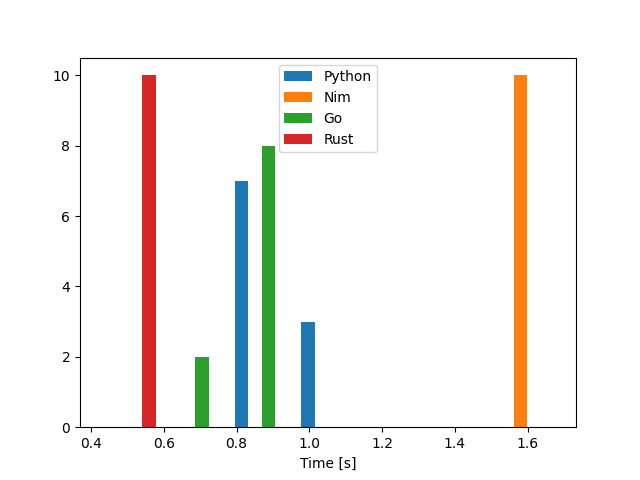
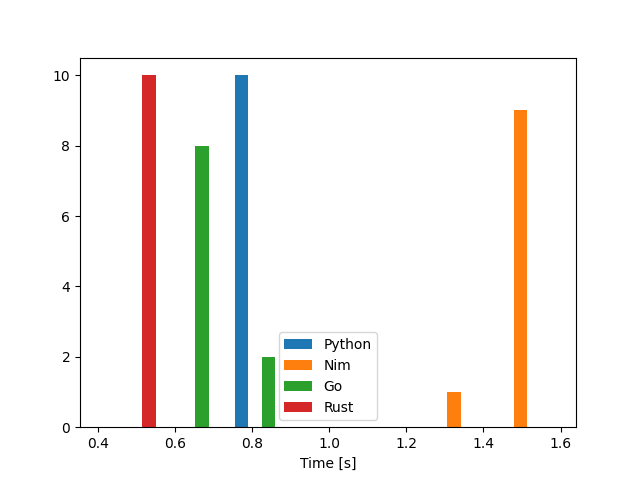
general fixes and improvement add new benchmark

diff --git a/anagram/ana.go b/anagram/ana.go
@@ -8,22 +8,22 @@ import (
 	"strings"
 )
 
-func sortString(s string) string {
-	var r []rune
+func sortString(str string) string {
+	var runeSlice []rune
 
-	for _, value := range s {
-		r = append(r, value)
+	for _, value := range str {
+		runeSlice = append(runeSlice, value)
 	}
 
-	sort.Slice(r, func(i, j int) bool {
-		return r[i] < r[j]
+	sort.SliceStable(runeSlice, func(i, j int) bool {
+		return runeSlice[i] < runeSlice[j]
 	})
 
-	return string(r)
+	return string(runeSlice)
 }
 
-func contains(s []string, str string) bool {
-	for _, v := range s {
+func contains(strSlice []string, str string) bool {
+	for _, v := range strSlice {
 		if v == str {
 			return true
 		}
@@ -32,6 +32,8 @@ func contains(s []string, str string) bool {
 }
 
 func main() {
+	theDict := make(map[string][]string)
+
 	file, err := os.Open("wordlist.txt")
 
 	if err != nil {
@@ -40,13 +42,10 @@ func main() {
 
 	defer file.Close()
 
-	theDict := make(map[string][]string)
-
 	words := bufio.NewScanner(file)
 
 	for words.Scan() {
-		word := words.Text()
-		word = strings.Trim(strings.Replace(word, "'", "", -1), "\n")
+		word := strings.Trim(strings.Replace(words.Text(), "'", "", -1), "\n")
 
 		if len(word) < 2 {
 			continue
@@ -54,18 +53,18 @@ func main() {
 
 		sortedWord := sortString(word)
 
-		if theDict[sortedWord] != nil {
+		if _, keyPresent := theDict[sortedWord]; keyPresent {
 			if !contains(theDict[sortedWord], word) {
 				theDict[sortedWord] = append(theDict[sortedWord], word)
 			}
 		} else {
-			theDict[sortedWord] = []string{word}
+			theDict[sortedWord] = []string{}
 		}
 	}
 
 	counter := 0
 	for k, v := range theDict {
-		if len(v) > 10 {
+		if len(v) >= 10 {
 			counter += 1
 			fmt.Printf("[%d] %s has %d words: %v\n", counter, k, len(v), v)
 		}

diff --git a/anagram/ana.py b/anagram/ana.py
@@ -1,24 +1,22 @@
 #!/usr/bin/env python3
 
-
-with open("wordlist.txt", "r", errors="ignore") as f:
-    words = f.readlines()
-
-
 the_dict: dict = {}
 
-for word in words:
-    word = word.replace("'", "").strip()
-    if len(word) < 2:
-        continue
+with open("wordlist.txt", "r") as file:
+    for word in file:
+        word = word.replace("'", "").strip()
 
-    sorted_word = "".join(sorted(word))
+        if len(word) < 2:
+            continue
 
-    if sorted_word in the_dict:
-        if word not in the_dict[sorted_word]:
-            the_dict[sorted_word].append(word)
-    else:
-        the_dict[sorted_word] = []
+        sorted_word = "".join(sorted(word))
+
+        if sorted_word in the_dict:
+            if word not in the_dict[sorted_word]:
+                the_dict[sorted_word].append(word)
+        else:
+            the_dict[sorted_word] = []
+
 
 counter = 0
 for k, v in the_dict.items():

diff --git a/anagram/ana.rs b/anagram/ana.rs
@@ -5,9 +5,10 @@ use std::{
 };
 
 fn main() {
+    let mut the_dict: HashMap<String, Vec<String>> = HashMap::new();
+
     let file = File::open("wordlist.txt").unwrap();
     let mut words = BufReader::new(file).lines();
-    let mut the_dict: HashMap<String, Vec<String>> = HashMap::new();
 
     while let Some(Ok(word)) = words.next() {
         let word = word.trim().replace("'", "");
@@ -17,7 +18,7 @@ fn main() {
         }
 
         let mut word_vec: Vec<char> = word.chars().collect();
-        word_vec.sort_unstable();
+        word_vec.sort();
         let sorted_word: String = word_vec.into_iter().collect();
 
         if the_dict.contains_key(&sorted_word) {

diff --git a/anagram/README.md b/anagram/README.md
@@ -133,10 +133,10 @@ hyperfine "python3.10 ana.py" "./ananim" "./anago" "./anarust"
 
 | Language |     Mean [ms] | Min [ms] | Max [ms] |    Relative |
 | :------- | ------------: | -------: | -------: | ----------: |
-| `Rust`   |  450.5 ± 25.8 |    413.3 |    504.9 |        1.00 |
-| `Go`     |  799.8 ± 24.9 |    762.9 |    838.2 | 1.78 ± 0.12 |
-| `Python` |  920.8 ± 57.2 |    831.2 |   1016.1 | 2.04 ± 0.17 |
-| `Nim`    | 1584.6 ± 52.5 |   1516.3 |   1689.0 | 3.52 ± 0.23 |
+| `Rust`   |   409.4 ± 9.0 |    394.6 |    423.4 |        1.00 |
+| `Go`     |  724.7 ± 16.1 |    701.2 |    751.0 | 1.77 ± 0.06 |
+| `Python` |  805.8 ± 16.4 |    782.5 |    824.6 | 1.97 ± 0.06 |
+| `Nim`    | 1529.6 ± 52.1 |   1418.4 |   1598.7 | 3.74 ± 0.15 |
 
 ---
 
